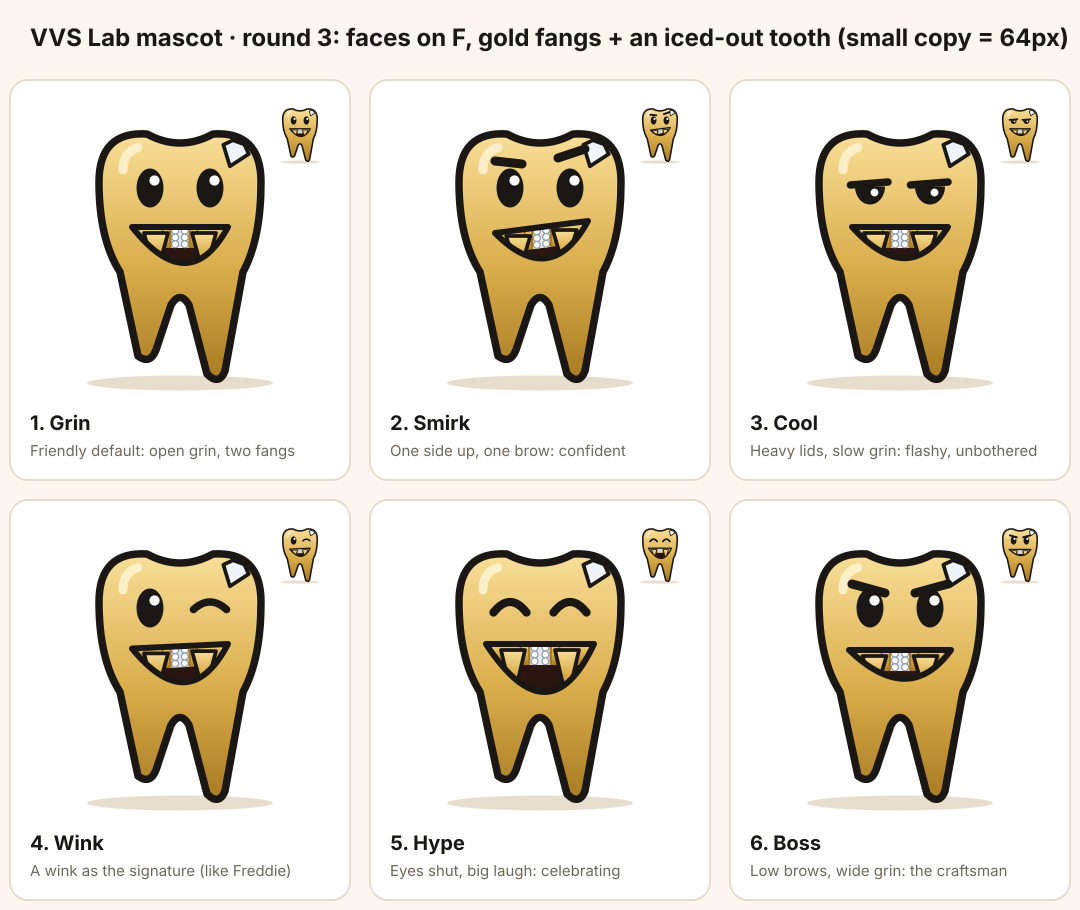
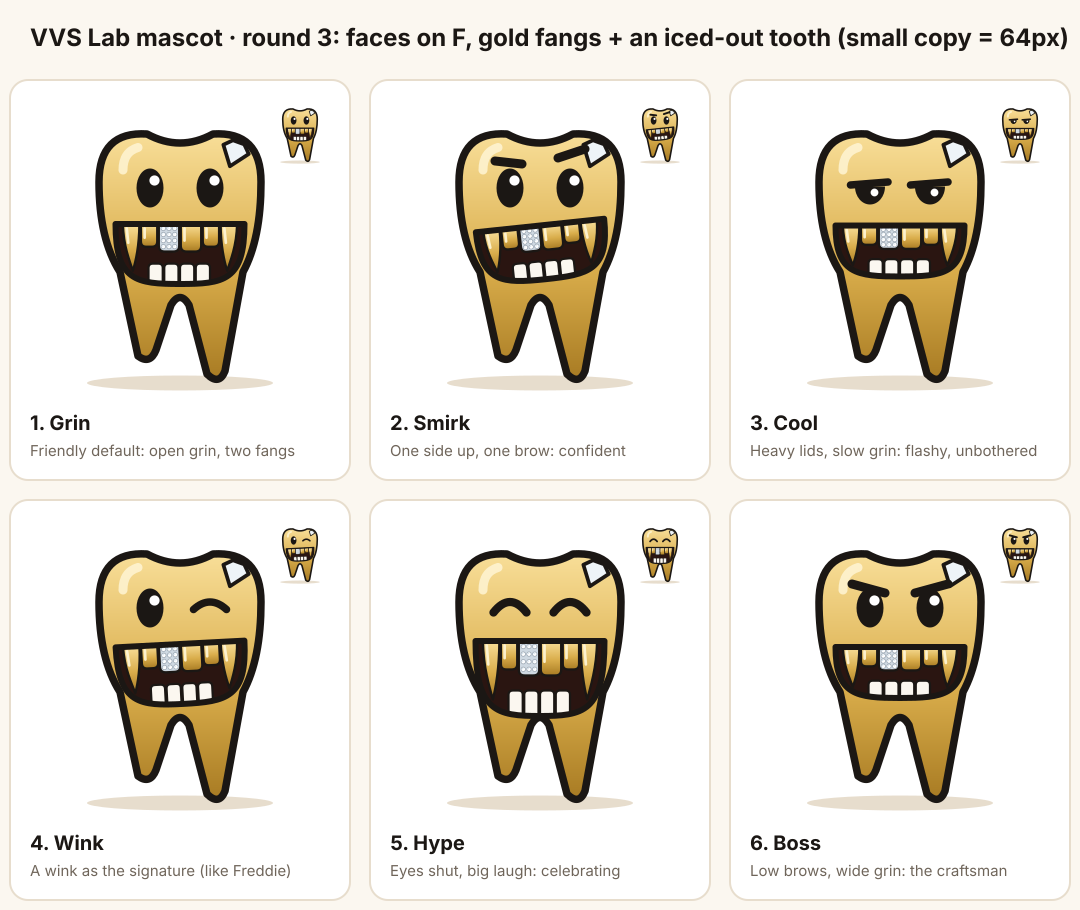
Mascot round 3: rebuild the grin from real tooth shapes
Separate gold caps, long tapered fangs, a pave iced-out centre tooth and
white lower teeth in a wide open mouth, modelled on the hero image; plus
a close-up of the grin.

Claude-Session: https://claude.ai/code/session_01CsKqmQb1fcvU3uVFSjXsG3

diff --git a/scripts/mascot-round3.ts b/scripts/mascot-round3.ts
@@ -2,7 +2,7 @@
 // obvious gold fangs, like the hero image, and one iced-out tooth; eyes and brows carry the
 // personality. Each face is shown large and at 64px (avatar size).
 //   npx tsx scripts/mascot-round3.ts
-// Writes docs/brand/mascot/round-3-faces.png (+ .svg).
+// Writes docs/brand/mascot/round-3-faces.png (+ .svg) and a close-up of the grin.
 
 import { mkdirSync, writeFileSync } from 'node:fs';
 import sharp from 'sharp';
@@ -19,10 +19,8 @@ type Face = {
   eyes: [Eye, Eye];
   /** Brow strokes as [x1, y1, x2, y2], or none. */
   brows?: [number, number, number, number][];
-  /** Mouth: top-left and top-right corners of the grin, and how deep it opens. */
-  mouth: { l: [number, number]; r: [number, number]; depth: number };
-  /** Fang length. */
-  fang: number;
+  /** Mouth: top edge height, how far it opens, and a tilt in degrees (a smirk). */
+  mouth: { y: number; open: number; tilt?: number };
 };
 
 function eye(kind: Eye, x: number, y: number) {
@@ -39,27 +37,59 @@ function eye(kind: Eye, x: number, y: number) {
   }
 }
 
+/**
+ * The grill, built like the hero image: separate gold caps with rounded tips
+ * hanging from the upper lip, long tapered fangs on the canines, the centre
+ * tooth iced out (white, with a pavé of stones), natural white teeth below.
+ */
 function grin(face: Face, id: string) {
-  const { l, r, depth } = face.mouth;
-  const mid: [number, number] = [(l[0] + r[0]) / 2, (l[1] + r[1]) / 2];
-  const mouth = `M${l[0]} ${l[1]}L${r[0]} ${r[1]}Q${mid[0] + 6} ${mid[1] + depth * 1.6} ${l[0]} ${l[1]}Z`;
-  const at = (t: number): [number, number] => [l[0] + (r[0] - l[0]) * t, l[1] + (r[1] - l[1]) * t];
-  // A gold grill row along the top of the mouth, and two long fang caps.
-  const row = `M${l[0]} ${l[1] - 2}L${r[0]} ${r[1] - 2}L${r[0]} ${r[1] + 14}L${l[0]} ${l[1] + 14}Z`;
-  // One tooth in the row is iced out: white with a pavé of stones.
-  const iced = (a: [number, number], b: [number, number]) => {
-    const stones = [0.25, 0.75].flatMap((u) => [2.5, 7, 11.5].map((dy) => `<circle cx="${a[0] + (b[0] - a[0]) * u}" cy="${a[1] + (b[1] - a[1]) * u + dy}" r="2.3" fill="#ffffff" stroke="#8d99a6" stroke-width=".8"/>`));
-    return `<path d="M${a[0]} ${a[1] - 2}L${b[0]} ${b[1] - 2}L${b[0]} ${b[1] + 14}L${a[0]} ${a[1] + 14}Z" fill="#e3eaf0"/>${stones.join('')}`;
-  };
-  const fang = (t: number) => {
-    const [x, y] = at(t);
-    return `<path d="M${x - 8} ${y + 4}L${x + 8} ${y + 4}L${x + 1.5} ${y + 4 + face.fang}Q${x} ${y + 7 + face.fang} ${x - 1.5} ${y + 4 + face.fang}Z" fill="url(#gold)" stroke="${INK}" stroke-width="2.5" stroke-linejoin="round"/>`;
-  };
-  return `<clipPath id="m${id}"><path d="${mouth}"/></clipPath>
+  const { y, open, tilt = 0 } = face.mouth;
+  // A wide, square-cornered open mouth so the fangs at the ends have room.
+  const m0 = 57;
+  const m1 = 143;
+  const mouth = `M${m0} ${y}L${m1} ${y}C${m1} ${y + open * 0.95} ${m1 - 14} ${y + open} 100 ${y + open}C${m0 + 14} ${y + open} ${m0} ${y + open * 0.95} ${m0} ${y}Z`;
+  const x0 = m0 + 5;
+  const x1 = m1 - 5;
+  const gap = 1;
+  // Fang, lateral, central (iced), central, lateral, fang.
+  const widths = [12, 12, 15, 15, 12, 12];
+  const scale = (x1 - x0 - gap * (widths.length - 1)) / widths.reduce((sum, w) => sum + w, 0);
+  let cursor = x0;
+  const teeth = widths.map((raw, index) => {
+    const w = raw * scale;
+    const x = cursor;
+    cursor += w + gap;
+    const outline = `stroke="${INK}" stroke-width="1.6" stroke-linejoin="round"`;
+    if (index === 0 || index === widths.length - 1) {
+      const length = open * 0.78;
+      const tip = x + w * (index === 0 ? 0.6 : 0.4);
+      return `<path d="M${x} ${y}L${x + w} ${y}C${x + w} ${y + length * 0.45} ${tip + 2} ${y + length * 0.8} ${tip} ${y + length}C${tip - 2} ${y + length * 0.8} ${x} ${y + length * 0.45} ${x} ${y}Z" fill="url(#gold)" ${outline}/><path d="M${x + 2.5} ${y + 3}L${x + 3.5} ${y + length * 0.4}" stroke="#fff6d8" stroke-width="1.8" stroke-linecap="round" opacity=".9"/>`;
+    }
+    const h = open * (index === 2 || index === 3 ? 0.46 : 0.38);
+    const r = Math.min(4, w / 3);
+    const cap = `M${x} ${y}L${x + w} ${y}L${x + w} ${y + h - r}Q${x + w} ${y + h} ${x + w - r} ${y + h}L${x + r} ${y + h}Q${x} ${y + h} ${x} ${y + h - r}Z`;
+    if (index === 2) {
+      // Pavé: a tight grid of small stones, each with a glint.
+      const stones = [0.22, 0.5, 0.78].flatMap((u) => [0.16, 0.38, 0.6, 0.82].map((v) => `<circle cx="${x + w * u}" cy="${y + h * v}" r="${w * 0.11}" fill="#ffffff" stroke="#9aa6b2" stroke-width=".5"/><circle cx="${x + w * u - w * 0.03}" cy="${y + h * v - w * 0.03}" r="${w * 0.035}" fill="#d6e6f2"/>`));
+      return `<path d="${cap}" fill="#cfd9e2" ${outline}/>${stones.join('')}`;
+    }
+    return `<path d="${cap}" fill="url(#gold)" ${outline}/><path d="M${x + 2.5} ${y + 3}L${x + 2.5} ${y + h * 0.6}" stroke="#fff6d8" stroke-width="1.8" stroke-linecap="round" opacity=".9"/>`;
+  });
+  const lower = [0, 1, 2, 3]
+    .map((i) => {
+      const w = 9.5;
+      const x = 100 - 2 * (w + 1) + i * (w + 1);
+      const h = open * 0.26;
+      const top = y + open * 0.92 - h;
+      return `<path d="M${x} ${top + 3}Q${x} ${top} ${x + 3} ${top}L${x + w - 3} ${top}Q${x + w} ${top} ${x + w} ${top + 3}L${x + w} ${top + h + 4}L${x} ${top + h + 4}Z" fill="#fbf7f0" stroke="${INK}" stroke-width="1.5"/>`;
+    })
+    .join('');
+  return `<g transform="rotate(${tilt} 100 ${y})">
+<clipPath id="m${id}"><path d="${mouth}"/></clipPath>
 <path d="${mouth}" fill="#2a1511"/>
-<g clip-path="url(#m${id})"><path d="${row}" fill="url(#gold)"/>${iced(at(0.4), at(0.6))}${[0.32, 0.4, 0.6, 0.68].map((t) => `<path d="M${at(t)[0]} ${at(t)[1] - 2}l0 16" stroke="#a87b23" stroke-width="1.5"/>`).join('')}</g>
-<g clip-path="url(#m${id})">${fang(0.25)}${fang(0.75)}</g>
-<path d="${mouth}" fill="none" stroke="${INK}" stroke-width="4" stroke-linejoin="round"/>`;
+<g clip-path="url(#m${id})">${lower}${teeth.join('')}</g>
+<path d="${mouth}" fill="none" stroke="${INK}" stroke-width="4" stroke-linejoin="round"/>
+</g>`;
 }
 
 function character(face: Face, id: string) {
@@ -72,31 +102,28 @@ ${eye(face.eyes[0], 80, 64)}${eye(face.eyes[1], 120, 64)}${brows}${grin(face, id
 }
 
 const faces: Face[] = [
-  { name: 'Grin', idea: 'Friendly default: open grin, two fangs', eyes: ['round', 'round'], mouth: { l: [68, 90], r: [132, 90], depth: 30 }, fang: 24 },
+  { name: 'Grin', idea: 'Friendly default: open grin, two fangs', eyes: ['round', 'round'], mouth: { y: 88, open: 40 } },
   {
     name: 'Smirk',
     idea: 'One side up, one brow: confident',
     eyes: ['round', 'round'],
     brows: [[70, 46, 88, 48], [112, 44, 130, 38]],
-    mouth: { l: [70, 94], r: [132, 86], depth: 26 },
-    fang: 22,
+    mouth: { y: 89, open: 36, tilt: -6 },
   },
   {
     name: 'Cool',
     idea: 'Heavy lids, slow grin: flashy, unbothered',
     eyes: ['lidded', 'lidded'],
-    mouth: { l: [68, 90], r: [132, 90], depth: 26 },
-    fang: 22,
+    mouth: { y: 89, open: 34 },
   },
-  { name: 'Wink', idea: 'A wink as the signature (like Freddie)', eyes: ['round', 'wink'], mouth: { l: [68, 91], r: [132, 88], depth: 30 }, fang: 24 },
-  { name: 'Hype', idea: 'Eyes shut, big laugh: celebrating', eyes: ['happy', 'happy'], mouth: { l: [64, 88], r: [136, 88], depth: 40 }, fang: 28 },
+  { name: 'Wink', idea: 'A wink as the signature (like Freddie)', eyes: ['round', 'wink'], mouth: { y: 88, open: 40, tilt: -3 } },
+  { name: 'Hype', idea: 'Eyes shut, big laugh: celebrating', eyes: ['happy', 'happy'], mouth: { y: 86, open: 50 } },
   {
     name: 'Boss',
     idea: 'Low brows, wide grin: the craftsman',
     eyes: ['round', 'round'],
     brows: [[68, 48, 90, 54], [110, 54, 132, 48]],
-    mouth: { l: [66, 92], r: [134, 92], depth: 24 },
-    fang: 22,
+    mouth: { y: 90, open: 34 },
   },
 ];
 
@@ -127,10 +154,16 @@ const sheet = `<svg xmlns="http://www.w3.org/2000/svg" viewBox="0 0 ${W} ${H}" w
 ${cells}
 </svg>`;
 
+/** The grin up close, to judge the teeth themselves. */
+const closeup = `<svg xmlns="http://www.w3.org/2000/svg" viewBox="52 76 96 64" width="960" height="640">
+<defs><linearGradient id="gold" x1="0" y1="0" x2="0" y2="1">${GOLD}</linearGradient></defs>
+<rect x="52" y="76" width="96" height="64" fill="#d9ad4b"/>${grin(faces[0], 'close')}</svg>`;
+
 async function main() {
   mkdirSync(OUT, { recursive: true });
   writeFileSync(`${OUT}/round-3-faces.svg`, sheet);
   await sharp(Buffer.from(sheet)).png({ compressionLevel: 9 }).toFile(`${OUT}/round-3-faces.png`);
+  await sharp(Buffer.from(closeup)).png({ compressionLevel: 9 }).toFile(`${OUT}/round-3-grin-closeup.png`);
   console.log('written', OUT);
 }
 

diff --git a/docs/brand/mascot/README.md b/docs/brand/mascot/README.md
@@ -72,11 +72,14 @@ Source: `scripts/mascot-round2.ts`. What it shows:
 
 ## Round 3: the face
 
-Chosen body: **F, Root fang**. The grin carries the grillz: two obvious gold
-fangs and one iced-out tooth in the centre, set against a dark mouth so they
-read even at 64px (avatar size).
+Chosen body: **F, Root fang**. The grin carries the grillz, built like the
+hero image: separate gold caps with rounded tips, long tapered gold fangs on
+the canines, the centre tooth iced out in pavé, natural white teeth below,
+in a wide open mouth so they read even at 64px (avatar size).
 
 ![Round 3 faces](round-3-faces.png)
+
+![The grin up close](round-3-grin-closeup.png)
 
 Source: `scripts/mascot-round3.ts`. Six faces, one personality each: Grin
 (friendly default), Smirk (confident), Cool (flashy, unbothered), Wink (a
